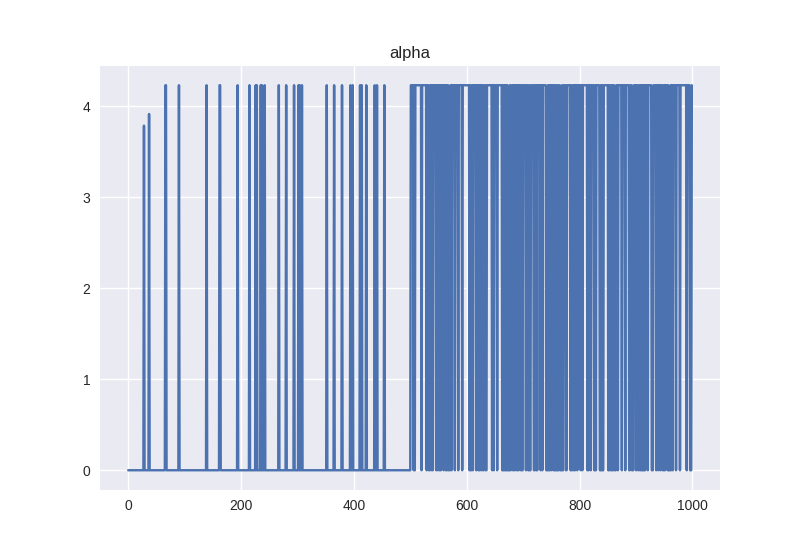
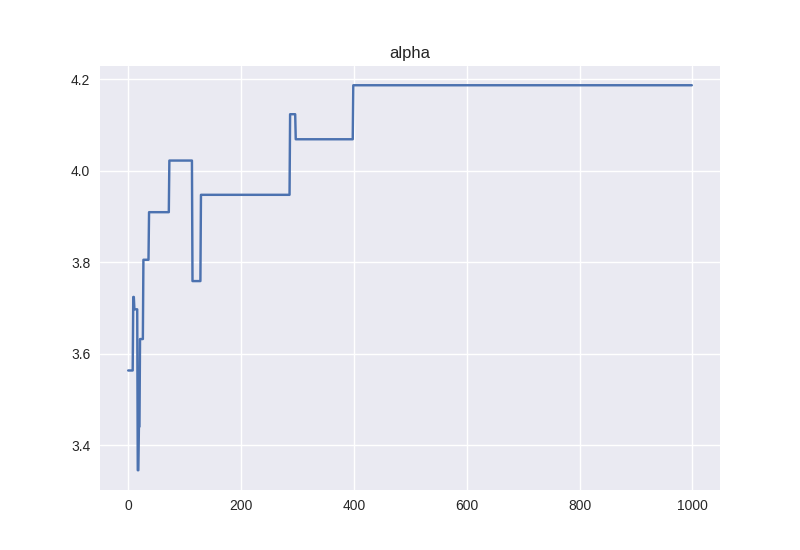
Prelim Plots

diff --git a/fortran/coupled_model.py b/fortran/coupled_model.py
@@ -199,7 +199,8 @@ class CoupledModel:
 			doeclim_gmsl(asc = theta[7], t2co_in = theta[5], kappa_in=theta[6], alphasl_in = theta[0], Teq = theta[1], SL0 = theta[2]) 
 			temp_out += theta[8]
 			lp_new = self.logp(theta_new, deltat, temp_out, gmsl_out)
-			if np.isinf(lp_new): 
+			if np.isinf(lp_new):
+				mcmc_chains[i,:] = theta
 				continue
 			lq = lp_new - lp
 			
@@ -229,6 +230,8 @@ mcmc_chain,accept_rate = CM.chain(1, NUMBER)
 
 pamnames = ['alpha', 'Teq', 'S0', 'rho', 'sigma_ar', 'climate_sensitivity', 'ocean_vertical_diffusivity', 'aerosol_scaling', 'T_0', 'sigma_T', 'rho_T']
 
+#print(mcmc_chain[:200,0])
+
 for i in range(11):
 	fig, ax = plt.subplots(nrows=1, ncols=1 )  # create figure & 1 axis
 	ax.plot(mcmc_chain[: ,i])
@@ -242,4 +245,3 @@ for i in range(11):
 	ax.set_title(pamnames[i])
 	fig.savefig('image/hist'+str(i+1)+'.png')   # save the figure to file
 	plt.close(fig)
-
